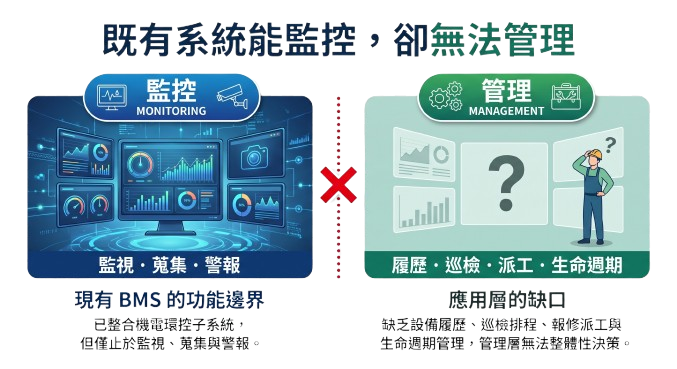
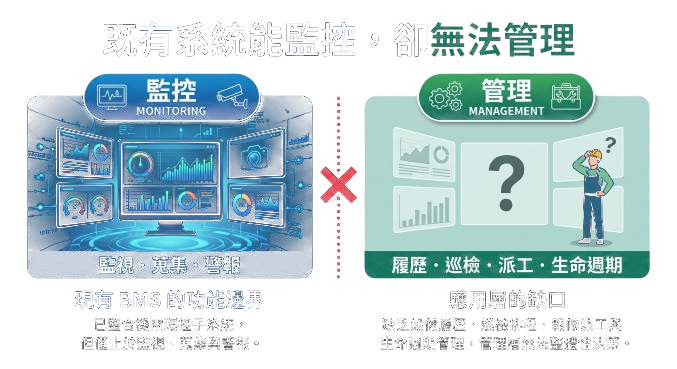
slide 3: replace with 5.png (de-bg, 80%, blend)

diff --git a/index.html b/index.html
@@ -336,7 +336,7 @@ table.deck-table tr:last-child td{border-bottom:none;}
 </section>
 
 <section class="slide" data-section="引起動機" data-slide="3" style="background:var(--bg); display:flex; align-items:center; justify-content:center;">
-  <img src="download.png" alt="" style="width:80%; height:auto; border-radius:16px; box-shadow:0 4px 40px rgba(24,24,27,0.15);">
+  <img src="5.png" alt="" style="width:80%; height:auto; border-radius:16px; box-shadow:0 4px 40px rgba(24,24,27,0.15);">
 </section>
 
 <section class="slide" id="s3" data-section="引起動機" data-slide="4">